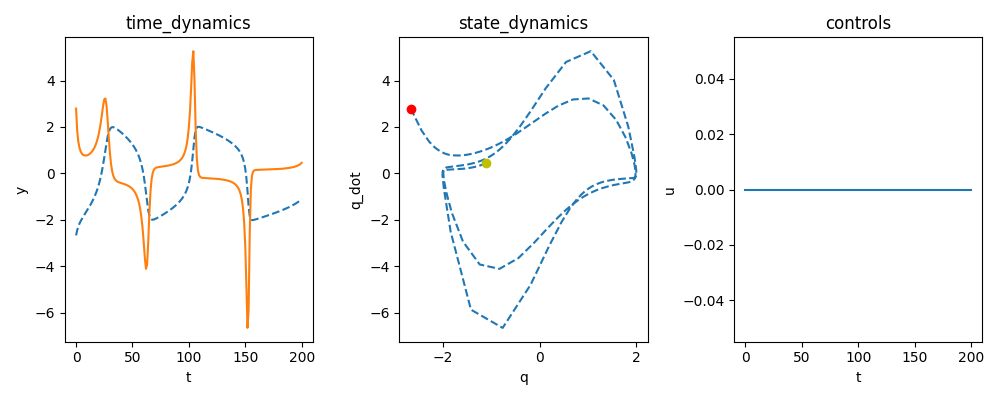
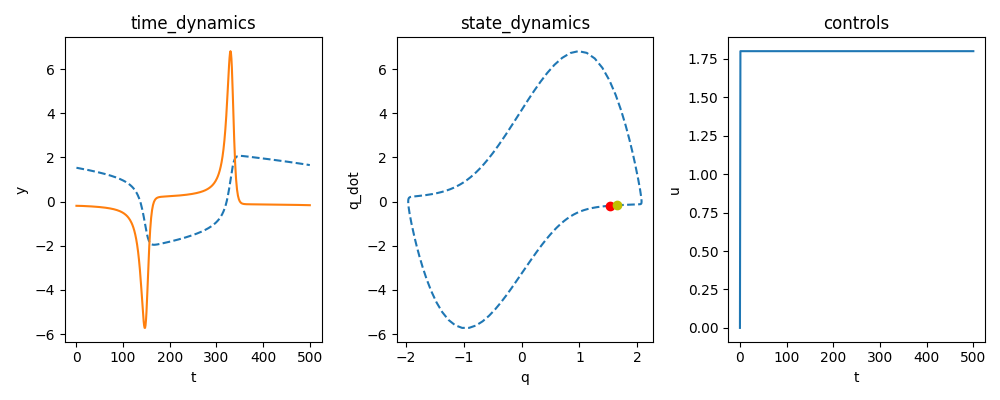
limit cycle

diff --git a/gym_vdp/simulator.py b/gym_vdp/simulator.py
@@ -1,16 +1,21 @@
+import functools
+import os
+
 import numpy as np
-try:
-    from vdp import rk4
-except ImportError:
-    # Using numpy rk4 integration. For improvement check rust version."
-    from gym_vdp.utils import rk4
+from scipy.integrate import odeint
+
+# try:
+#    from vdp import rk4
+# except ImportError:
+# Using numpy rk4 integration. For improvement check rust version."
+from gym_vdp.utils import rk4
 
 
-class VanDerPolPendulum:
+class VanDerPolOscillator:
     _best_x0 = [-0.1144, 2.0578]  # taken from drake, thanks !
 
-    def __init__(self, x0=(0, 1), mu=1, state_bound=10., action_bound=10.):
-        self._dt = 0.1
+    def __init__(self, x0=(0, 1), mu=1, state_bound=10., action_bound=2., dt=0.01):
+        self._dt = dt
         self.time_step = 0
         self.state_bound = state_bound
         self.action_bound = action_bound
@@ -29,9 +34,9 @@ class VanDerPolPendulum:
     def step(self, u):
         u = float(np.clip(u, -self.action_bound, self.action_bound))
         t_span = [0, self._dt]
-        out = rk4(t_span, self.x, u, self._mu)
+        out = rk4(_vdp, t_span, self.x.copy(), u, self._mu)
         x = np.clip(out, -self.state_bound, self.state_bound)
-        c = self.cost_fn(x, u)
+        c = self.cost_fn(self.x, u)
         self.time_step += 1
         self.x = x
         return x, c
@@ -39,3 +44,49 @@ class VanDerPolPendulum:
     @property
     def best_x0(self):
         return self._best_x0
+
+
+class LimitCycleVDP(VanDerPolOscillator):
+    # Taken from Practical Bifurcation and Stability Analysis, page 347 Seydel R. Forced Van der Pol oscillator
+    _x0 = [1.53457323, -0.18991305]
+    _period = 10.4719755
+
+    def __init__(self, gamma=0.5, mu=4, u=1.8, max_steps=500):
+        path = os.path.join(os.path.dirname(__file__), "solution.npy")
+        if not os.path.exists(path):
+            times = np.linspace(0, self._period, max_steps)
+            space, dt = _simulate_optimal_trajectory(self._x0, times, u, mu, gamma)
+            np.save(path, (space, dt))
+        else:
+            space, dt = np.load(path, allow_pickle=True)
+        assert len(space) == max_steps, "saved trajectory does not match max_steps"
+        self.space = space
+        self.gamma = gamma
+        self.max_steps = len(self.space) - 1
+
+        self._best_action = u
+        super().__init__(self._x0, mu=mu, dt=dt, action_bound=2)
+
+    def cost_fn(self, x, u):
+        return np.linalg.norm(x - self.space[self.time_step]) ** 2 / self.max_steps + np.linalg.norm(
+            u - self._best_action) ** 2
+
+    def reset(self, x0=None):
+        return self._x0
+
+
+def _vdp(t, x, u, mu, gamma=0.5):
+    x, x_dot = x
+    x_ddot = mu * x_dot * (1 - x ** 2) - x + gamma * np.cos(u * t)
+    return x_dot, x_ddot
+
+
+def _vdp_ode(x, t, u, mu, gamma):
+    return _vdp(t, x, u, mu, gamma)
+
+
+def _simulate_optimal_trajectory(x0, times, u, mu, gamma):
+    dt = times[1] - times[0]
+    fn = functools.partial(_vdp_ode, u=u, mu=mu, gamma=gamma)
+    space = odeint(fn, x0, t=times)
+    return space, dt

diff --git a/gym_vdp/env.py b/gym_vdp/env.py
@@ -1,9 +1,10 @@
 import gym
 import matplotlib.pyplot as plt
 import numpy as np
+from gym.envs.registration import register
 from gym.utils import seeding
 
-from gym_vdp.simulator import VanDerPolPendulum
+from gym_vdp.simulator import VanDerPolOscillator, LimitCycleVDP
 from gym_vdp.wrappers import RandomizeVDP, Constrained
 
 _metadata = {'render.modes': ["static", "human", "rgb_array"]}
@@ -15,14 +16,14 @@ except Exception as e:
     _metadata['render.modes'] = ["static"]
 
 
-class VanDerPolPendulumEnv(gym.Env):
+class VanDerPolOscillatorEnv(gym.Env):
     metadata = _metadata
 
     def __init__(self, x0=None):
         self.viewer = None
-        self.action_space = gym.spaces.Box(low=-1, high=1, shape=(1,))
+        self.action_space = gym.spaces.Box(low=-2, high=2, shape=(1,))
         self.observation_space = gym.spaces.Box(low=-3, high=3, shape=(2,))
-        self._simulator = VanDerPolPendulum(x0)
+        self._simulator = VanDerPolOscillator(x0)
         self._xs = []
         self.max_steps = 200
         self.max_cost = 10
@@ -95,6 +96,13 @@ class VanDerPolPendulumEnv(gym.Env):
             self.viewer.close()
 
 
+class LimitCycleVDPEnv(VanDerPolOscillatorEnv):
+    def __init__(self):
+        super(LimitCycleVDPEnv, self).__init__()
+        self._simulator = LimitCycleVDP()
+        self.max_steps = self._simulator.max_steps
+
+
 def _render_state(s, color=(1, 0, 0)):
     attr = rendering.Transform(translation=tuple(s))
     circ = rendering.make_circle(0.1)
@@ -136,9 +144,19 @@ def _static_render(xs, a):
 
 
 def make_vdp(env_id, randomize=False, constrained=False, x0=None, std=0.03):
-    env = VanDerPolPendulumEnv(x0=x0)
+    env = gym.make(env_id)
     if randomize:
         env = RandomizeVDP(env, std=std)
     if constrained:
         env = Constrained(env)
     return env
+
+
+register(
+    id="vdp-v0",
+    entry_point="gym_vdp.env:VanderPolOscillatorEnv"
+)
+register(
+    id="vdp-lc-v0",
+    entry_point="gym_vdp.env:LimitCycleVDPEnv"
+)

diff --git a/example.py b/example.py
@@ -1,17 +1,15 @@
 import numpy as np
 
 from gym_vdp.env import make_vdp
-from gym_vdp.simulator import VanDerPolPendulum
-from gym.wrappers.monitor import Monitor
 
 
-def main():
-    env = make_vdp("vdp-v0", randomize=True, x0=VanDerPolPendulum.best_x0)
-    #env = Monitor(env, directory="logs/", force=True)
+def control():
+    env = make_vdp("vdp-v0", randomize=True, x0=(1, 1))
+    # env = Monitor(env, directory="logs/", force=True)
     env.seed(0)
     env.reset()
     while True:
-        a = 0 #np.random.uniform(-10., 10.)
+        a = np.random.uniform(-2, 2)
         s, r, done, info = env.step(a)
         env.render(mode="human")
         if done:
@@ -20,5 +18,21 @@ def main():
     env.close()
 
 
+def stationarity():
+    env = make_vdp("vdp-lc-v0", randomize=False)
+    # env = Monitor(env, directory="logs/", force=True)
+    env.seed(0)
+    env.reset()
+    while True:
+        a = env.unwrapped._simulator._best_action
+        s, r, done, info = env.step(a)
+        # env.render(mode="human")
+        if done:
+            break
+    env.render(mode="static", fname="figures/vdp.png")
+    env.close()
+
+
 if __name__ == "__main__":
-    main()
+    stationarity()
+    # control()

diff --git a/gym_vdp/utils.py b/gym_vdp/utils.py
@@ -1,11 +1,6 @@
 import numpy as np
 
 
-def _vdp(t, x, u, mu):
-    x, x_dot = x
-    x_ddot = mu * x_dot * (1 - x ** 2) - x + u
-    return x_dot, x_ddot
-
 
 def _rk4(derivs, t, y0, *args, **kwargs):
     """
@@ -67,6 +62,6 @@ def _rk4(derivs, t, y0, *args, **kwargs):
     return yout
 
 
-def rk4(*args, **kwargs):
-    out = _rk4(_vdp, *args, **kwargs)
+def rk4(fn, *args, **kwargs):
+    out = _rk4(fn, *args, **kwargs)
     return out[-1]
